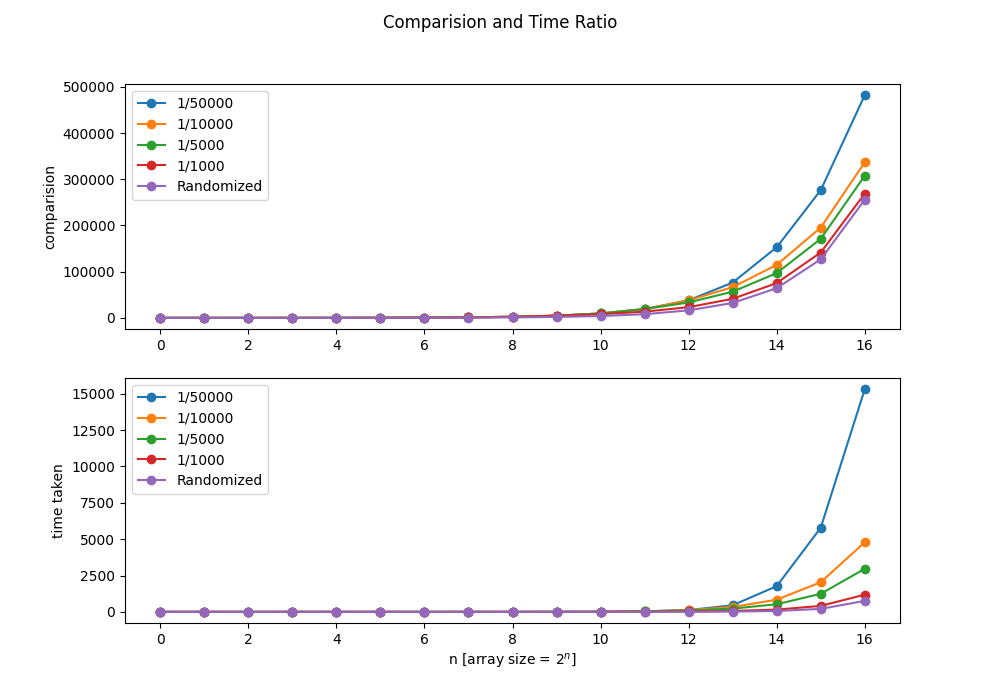
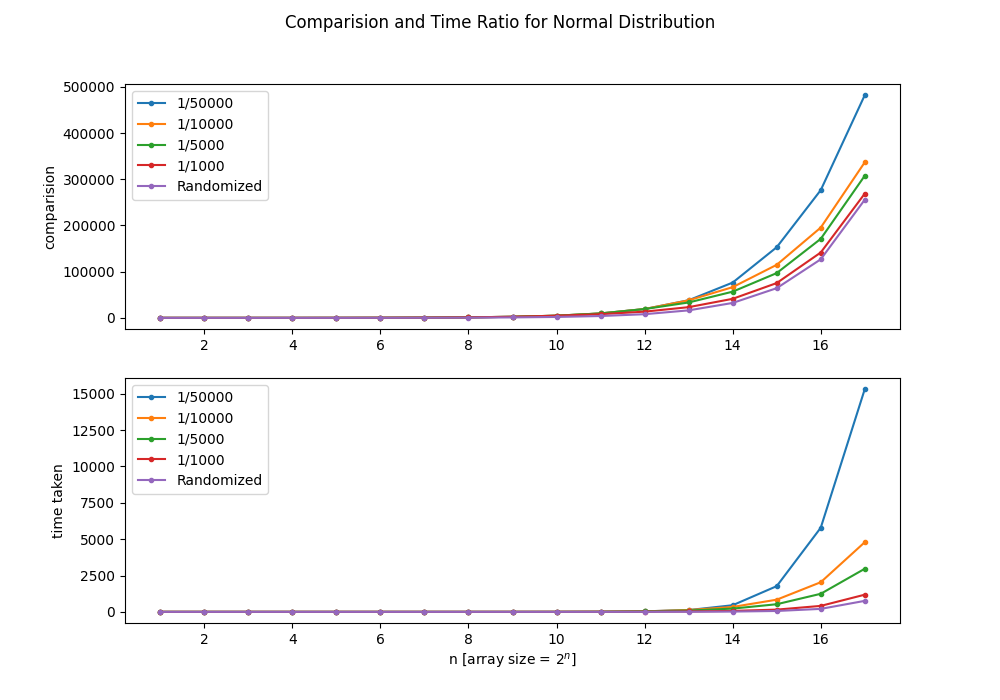
samll additions for normal

diff --git a/Assignment 1/Question 4 Randomized Quick Sort/Part 2 Deliberate Partitions/Normal/plotter.py b/Assignment 1/Question 4 Randomized Quick Sort/Part 2 Deliberate Partitions/Normal/plotter.py
@@ -31,25 +31,25 @@ n_normal = normal_df['num_elements'].to_numpy()
 comp_normal = normal_df['avg_comparison'].to_numpy()
 time_normal = normal_df['avg_time'].to_numpy()
 
-x_axis = range(1,16)
+x_axis = range(1,18)
 
 fig, axis = plt.subplots(2, 1, figsize=(10, 7))
 
-fig.suptitle('Comparision and Time Ratio')
+fig.suptitle('Comparision and Time Ratio for Normal Distribution')
 
-axis[0].plot(comp_1_50000, 'o-', label='1/50000')
-axis[0].plot(comp_1_10000, 'o-', label='1/10000')
-axis[0].plot(comp_1_5000, 'o-', label='1/5000')
-axis[0].plot(comp_1_1000, 'o-', label='1/1000')
-axis[0].plot(comp_normal, 'o-', label='Randomized')
+axis[0].plot(x_axis,comp_1_50000, '.-', label='1/50000')
+axis[0].plot(x_axis,comp_1_10000, '.-', label='1/10000')
+axis[0].plot(x_axis,comp_1_5000, '.-', label='1/5000')
+axis[0].plot(x_axis,comp_1_1000, '.-', label='1/1000')
+axis[0].plot(x_axis,comp_normal, '.-', label='Randomized')
 axis[0].legend()
 axis[0].set_ylabel('comparision')
 
-axis[1].plot(time_1_50000, 'o-', label='1/50000')
-axis[1].plot(time_1_10000, 'o-', label='1/10000')
-axis[1].plot(time_1_5000, 'o-', label='1/5000')
-axis[1].plot(time_1_1000, 'o-', label='1/1000')
-axis[1].plot(time_normal, 'o-', label = 'Randomized')
+axis[1].plot(x_axis,time_1_50000, '.-', label='1/50000')
+axis[1].plot(x_axis,time_1_10000, '.-', label='1/10000')
+axis[1].plot(x_axis,time_1_5000, '.-', label='1/5000')
+axis[1].plot(x_axis,time_1_1000, '.-', label='1/1000')
+axis[1].plot(x_axis,time_normal, '.-', label = 'Randomized')
 axis[1].legend()
 axis[1].set_ylabel('time taken')
 
